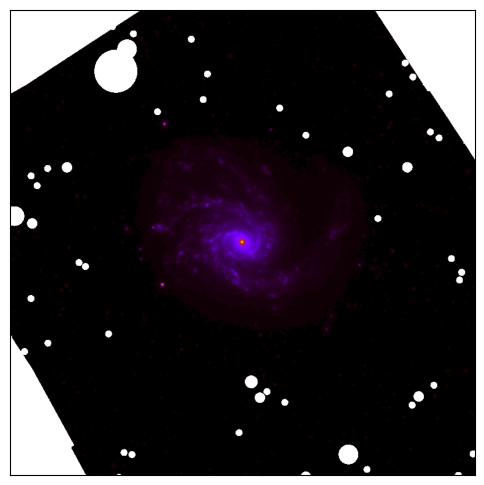
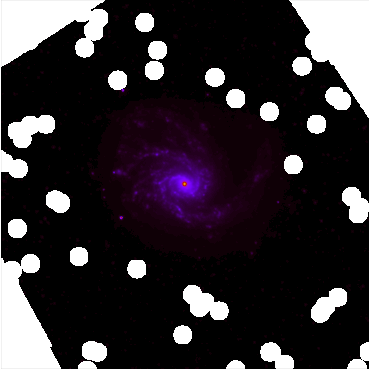
Latest changes

diff --git a/software/hip.html b/software/hip.html
@@ -411,6 +411,7 @@
         * <u>Description</u>: Size of the are along the y axis in arcminutes.<br><br>
 
         maskFactor:<br>
+        Defaults to <i>1.0</i><br>
         * <u>Type</u>: Float<br> 
         * <u>Description</u>: Factor multiplier for mask radius.<br><br>
         <table style="text-align:left; width:100%; border=4"> 
@@ -425,7 +426,7 @@
                             &#160;&#160;&#160;&#160;&#160;- band: MIPS1<br>
                             &#160;&#160;&#160;&#160;&#160;&#160;&#160;raTrim: 10<br>
                             &#160;&#160;&#160;&#160;&#160;&#160;&#160;decTrim: 10<br>
-                            &#160;&#160;&#160;&#160;&#160;&#160;&#160;maskFactor: 2<br>
+                            &#160;&#160;&#160;&#160;&#160;&#160;&#160;maskFactor: 1<br>
                         </i>
                    </td>
                </tr>
@@ -435,13 +436,13 @@
             <tbody>
                 <tr>
                     <td>
-                        <img src="../images/foregroundMask.png" alt=
+                        <img src="../images/foregroundMask_MIPS1.png" alt=
                         "Cutout example" width=
                         "100%" title="ForegroundMask example">
                         <p style="color:rgb(51,51,153);text-align:center">
                         <i>Foreground masking for MIPS1 image of NGC4254. The
                         foreground masking was defined to be 10x10 arcmins with a
-                        maskFactor of 2 as seen in the example above.</i></p>
+                        maskFactor of 1 as seen in the example above.</i></p>
                     </td>
                 </tr>
             </tbody>
@@ -536,9 +537,9 @@
                         "Sky-subtract for MIPS1 image of NGC4254." width=
                         "100%" title="SkySubtract example"> <p
                         style="color:rgb(51,51,153);text-align:center"> <i>Sky
-                        subtract mask and background interpoaltion for MIPS1
-                        image of NGC4254. In that case, the sky subtraction is
-                        done after foreground masking for MIPS1.</i></p>
+                        subtract mask for MIPS1 image of NGC4254. In that case,
+                        the sky subtraction is done after foreground masking
+                        for MIPS1.</i></p>
                     </td>
                 </tr>
             </tbody>
@@ -622,13 +623,6 @@
                         <i>Degradation from PACS1 with a resolution of 9
                         arcseconds to SPIRE3 with resolution of 36 arcseconds
                         for NGC4254.</i></p>
-                        <img src="../images/degrade_MIPS1.png" alt=
-                        "Degradation from MIPS11 to SPIRE3 for NGC4254." width=
-                        "100%" title="Degrade example">
-                        <p style="color:rgb(51,51,153);text-align:center">
-                        <i>Degradation from MIPS1 with a resolution of 6
-                        arcseconds to SPIRE3 with resolution of 36 arcseconds
-                        for NGC4254.</i></p>
                     </td>
                 </tr>
             </tbody>
@@ -693,6 +687,7 @@
         * <u>Description</u>: Name(s) of input band, <i>all</i> if all of them.<br><br>
 
         sizeFactor:<br>
+        Defaults to <i>1.0</i><br>
         * <u>Type</u>: Float <br> 
         * <u>Description</u>: Factor multiplier for size of aperture.<br><br>
         <table style="text-align:left; width:100%; border=4"> 
@@ -782,8 +777,7 @@
                         &#160;&#160;&#160;&#160;&#160;parameters:<br>
                         &#160;&#160;&#160;&#160;&#160;- band: MIPS1<br>
                         &#160;&#160;&#160;&#160;&#160;&#160;&#160;raTrim: 10<br>
-                        &#160;&#160;&#160;&#160;&#160;&#160;&#160;decTrim: 10<br>
-                        &#160;&#160;&#160;&#160;&#160;&#160;&#160;maskFactor: 2<br><br>
+                        &#160;&#160;&#160;&#160;&#160;&#160;&#160;decTrim: 10<br><br>
 
                         &#160;&#160; - step: hip.skySubtract<br>
                         &#160;&#160;&#160;&#160;&#160;diagnosis: True<br>
@@ -811,8 +805,7 @@
                         &#160;&#160; - step: hip.integrate<br>
                         &#160;&#160;&#160;&#160;&#160;diagnosis: True<br>
                         &#160;&#160;&#160;&#160;&#160;parameters:<br>
-                        &#160;&#160;&#160;&#160;&#160;- band: all<br>
-                        &#160;&#160;&#160;&#160;&#160;&#160;&#160;sizeFactor: 1<br><br>
+                        &#160;&#160;&#160;&#160;&#160;- band: all<br><br>
                     </i>
                </td>
            </tr>
